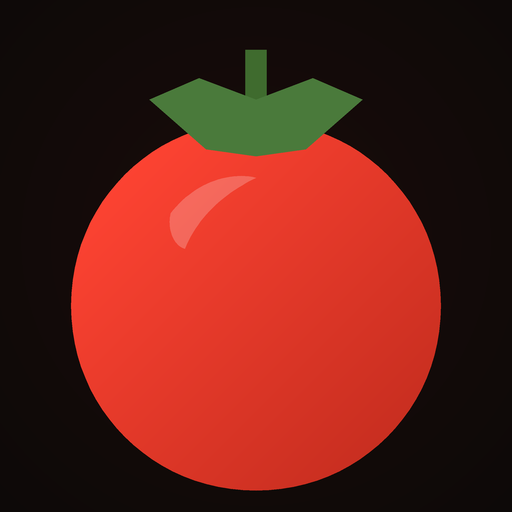
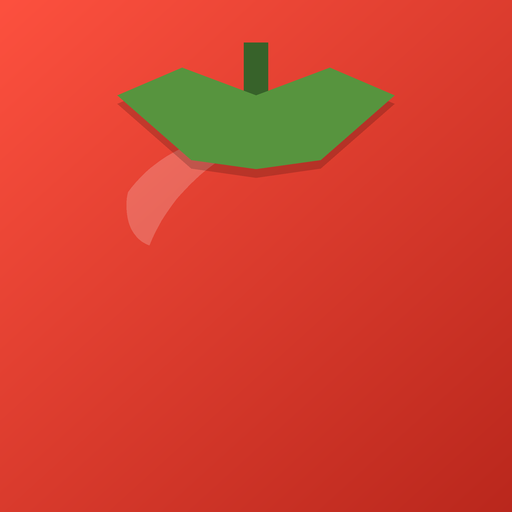
chore(version): 1.2.0 (versionCode 5)
Los cuatro sitios de CLAUDE.md §2.7 más los textos de Play: CHANGELOG.md, los
string-array changelog_1_2_0 en EN y ES, el catálogo y el build.gradle.kts.

El icono de la ficha se regenera con generar-assets.py, que reproduce los
pathData del icono de la app: el cuerpo del tomate ya no es un path del
foreground, es el degradado del background llenando el lienzo.

diff --git a/app/src/main/java/com/jjrapps/aquihaytomate/ui/changelog/ChangelogCatalog.kt b/app/src/main/java/com/jjrapps/aquihaytomate/ui/changelog/ChangelogCatalog.kt
@@ -26,6 +26,12 @@ object ChangelogCatalog {
 
     val releases: List<ChangelogRelease> = listOf(
         ChangelogRelease(
+            versionName = "1.2.0",
+            versionCode = 5,
+            releaseDate = LocalDate.of(2026, 8, 10),
+            highlightsRes = R.array.changelog_1_2_0,
+        ),
+        ChangelogRelease(
             versionName = "1.1.0",
             versionCode = 4,
             releaseDate = LocalDate.of(2026, 7, 29),

diff --git a/docs/store-assets/generar-assets.py b/docs/store-assets/generar-assets.py
@@ -176,55 +176,48 @@ def mascara_liquido(tamano, fraccion, fase, periodos):
 
 
 # ── Icono de Play ───────────────────────────────────────────────────────────────────────────────────
-# Los `pathData` de res/drawable/ic_launcher_foreground.xml, literalmente.
-CUERPO = ("M54,35 C68.5,35 80,46.5 80,61 C80,75.5 68.5,87 54,87 "
-          "C39.5,87 28,75.5 28,61 C28,46.5 39.5,35 54,35 Z")
-BRILLO = "M42,48 C45,44 50,42 54,43 C50,45 46,48 44,53 C42.5,52.5 41.5,50.5 42,48 Z"
-TALLO = "M52.5,25 L55.5,25 L55.5,36 L52.5,36 Z"
-CALIZ = "M54,32 L62,29 L69,32 L61,39 L54,40 L47,39 L39,32 L46,29 Z"
+# Los `pathData` de res/drawable/ic_launcher_foreground.xml, literalmente. El cuerpo del tomate ya no
+# es un path: es el degradado de ic_launcher_background.xml, que llena el lienzo entero.
+BRILLO = "M36,45 C40.5,39 48,36 54,37.5 C48,40.5 42,45 39,52.5 C36.75,51.75 35.25,49 36,45 Z"
+SOMBRA_CALIZ = ("M54,32.6 L64.4,28.7 L73.5,32.6 L63.1,41.7 L54,43 L44.9,41.7 L34.5,32.6 "
+                "L43.6,28.7 Z")
+TALLO = "M52.3,24 L55.7,24 L55.7,36 L52.3,36 Z"
+CALIZ = "M54,31.4 L64.4,27.5 L73.5,31.4 L63.1,40.5 L54,41.8 L44.9,40.5 L34.5,31.4 L43.6,27.5 Z"
 
 
 def icono_play(lado=512):
     """
     Reproduce el icono adaptativo y recorta la ventana visible.
 
-    El arte del `foreground` vive en la zona segura de 66 dp del lienzo de 108, pero el launcher solo
-    muestra los 72 dp centrales. Si se escalara el lienzo entero a 512, el tomate saldría un 33 % más
-    pequeño que en el escritorio del móvil; recortando [18,90] el icono de la ficha se ve **igual** que
-    el instalado, que es lo que se compara al mirar la lista de Play.
+    El launcher solo muestra los 72 dp centrales del lienzo de 108. Si se escalara el lienzo entero a
+    512, el tomate saldría un 33 % más pequeño que en el escritorio del móvil; recortando [18,90] el
+    icono de la ficha se ve **igual** que el instalado, que es lo que se compara al mirar la lista de
+    Play.
+
+    Desde la 1.2.0 el fondo es el cuerpo de la fruta y llena el lienzo, así que aquí no hay silueta que
+    recortar: el círculo lo pone el recorte de la ventana, igual que en el móvil lo pone la máscara.
     """
     escala = lado * SUPERMUESTREO / 72.0   # 72 unidades de la ventana visible → lado final
     lienzo = int(round(108 * escala))
 
-    img = degradado_radial(
+    img = degradado_lineal(
         (lienzo, lienzo),
-        centro=(54 * escala, 52 * escala),
-        radio=66 * escala,
-        color_centro=(0x1A, 0x0C, 0x0A),
-        color_borde=(0x0A, 0x09, 0x08),
+        inicio=(18 * escala, 14 * escala),
+        fin=(94 * escala, 98 * escala),
+        color_inicio=(0xFF, 0x52, 0x40),
+        color_fin=(0xB4, 0x24, 0x1A),
     ).convert("RGBA")
 
-    # Cuerpo: su propio degradado lineal, recortado por la silueta.
-    cuerpo = Image.new("L", (lienzo, lienzo), 0)
-    ImageDraw.Draw(cuerpo).polygon(puntos_de_path(CUERPO, escala), fill=255)
-    relleno = degradado_lineal(
-        (lienzo, lienzo),
-        inicio=(34 * escala, 41 * escala),
-        fin=(76 * escala, 83 * escala),
-        color_inicio=(0xFF, 0x44, 0x33),
-        color_fin=(0xC4, 0x2D, 0x1F),
-    )
-    img.paste(relleno, (0, 0), cuerpo)
+    brillo = Image.new("RGBA", (lienzo, lienzo), (0, 0, 0, 0))
+    ImageDraw.Draw(brillo).polygon(puntos_de_path(BRILLO, escala), fill=(255, 255, 255, 51))
+    img = Image.alpha_composite(img, brillo)
 
     capa = Image.new("RGBA", (lienzo, lienzo), (0, 0, 0, 0))
     dibujo = ImageDraw.Draw(capa)
-    dibujo.polygon(puntos_de_path(TALLO, escala), fill=(0x3F, 0x6B, 0x2E, 255))
-    dibujo.polygon(puntos_de_path(CALIZ, escala), fill=(0x4A, 0x7A, 0x3B, 255))
+    dibujo.polygon(puntos_de_path(SOMBRA_CALIZ, escala), fill=(0, 0, 0, 46))
+    dibujo.polygon(puntos_de_path(TALLO, escala), fill=(0x37, 0x62, 0x2A, 255))
+    dibujo.polygon(puntos_de_path(CALIZ, escala), fill=(0x57, 0x94, 0x3E, 255))
     img = Image.alpha_composite(img, capa)
-
-    brillo = Image.new("RGBA", (lienzo, lienzo), (0, 0, 0, 0))
-    ImageDraw.Draw(brillo).polygon(puntos_de_path(BRILLO, escala), fill=(255, 255, 255, 56))
-    img = Image.alpha_composite(img, brillo)
 
     ventana = int(round(18 * escala))
     img = img.crop((ventana, ventana, lienzo - ventana, lienzo - ventana))

diff --git a/CHANGELOG.md b/CHANGELOG.md
@@ -15,6 +15,51 @@ reutilizar ni bajando la versión.
 El formato sigue [Keep a Changelog](https://keepachangelog.com/es-ES/1.1.0/) y las versiones
 [Semantic Versioning](https://semver.org/lang/es/).
 
+## [1.2.0] — 2026-08-10 (versionCode 5)
+
+Sube el minor porque hay funcionalidad nueva —los tres modos de pantalla encendida y el correo al
+autor—, aunque el peso de la versión está en dos fallos que solo se ven en un dispositivo real: el
+temporizador no cabía girado y el icono se leía como una pegatina negra.
+
+### Añadido
+
+- **La pantalla se mantiene encendida mientras el móvil carga**, en la pantalla Temporizador. El
+  interruptor de sí/no pasa a tres modos —nunca, mientras carga, siempre— y **mientras carga es el nuevo
+  valor por defecto**: enchufado en el escritorio, la pantalla no cuesta batería y un temporizador que hay
+  que despertar para leer es un temporizador que se deja de mirar. Ya no depende de que el reloj esté
+  corriendo, así que pausar deja de apagar la pantalla. Quien tenía el interruptor encendido pasa a
+  «siempre», que es lo que tenía. Ver `docs/decisions/013-*`.
+- **Enviar comentarios al autor** desde Acerca de: abre la app de correo con el destinatario puesto y el
+  nombre y la versión de la app en el asunto, porque un informe sin versión no se puede atender. La
+  dirección no se imprime en la pantalla de Ajustes.
+
+### Cambiado
+
+- **Los controles `REINICIAR` y `SALTAR` pasan a blanco.** En `TextMuted` se leían como deshabilitados, y
+  en una pantalla sin cajas el color es la única señal de que algo se puede pulsar. La jerarquía la marcan
+  ahora el tamaño y el glifo del control primario.
+- **`A CONTINUACIÓN:` se queda en `SIGUIENTE:`.** A 10 sp y con tracking, esa etiqueta pesaba más que el
+  dato que introduce.
+- **El tomate pierde el cáliz.** Las tres hojas que se dibujaban en los descansos se solapaban entre ellas
+  y se fundían en un bloque de base recta pintado por encima del contorno, así que parecían un recorte
+  pegado al círculo y no parte de él. La fase la sigue diciendo la etiqueta escrita debajo.
+
+### Corregido
+
+- **El temporizador se salía de la pantalla con el móvil girado.** En horizontal quedan unos 370 dp de
+  alto y la columna necesita más, así que `SALTAR` y los puntos de ciclo caían por debajo del borde
+  inferior, sin scroll ni forma de alcanzarlos. Girado, el bloque se parte en dos columnas —tomate a la
+  izquierda, controles a la derecha— y el diámetro se calcula sobre el alto disponible. El onboarding
+  sufría lo mismo, con `EMPEZAR` fuera de alcance: sus páginas quedan centradas cuando caben y con scroll
+  cuando no, lo que cubre además las escalas de fuente grandes.
+- **El icono de la app se veía como una pegatina negra** sobre cualquier fondo de pantalla que no fuera
+  oscuro: el fondo del icono adaptativo era casi negro y el tomate se dibujaba pequeño dentro de la zona
+  segura. Como el launcher siempre pinta la capa de fondo y siempre recorta con su propia máscara, ahora
+  el degradado rojo **es** el cuerpo del tomate y llena el lienzo; en la capa delantera quedan el rabillo
+  y el brillo.
+- **El asunto del correo de comentarios llegaba vacío en Gmail**, que resuelve `ACTION_SENDTO` leyendo la
+  URI `mailto:` y descarta `EXTRA_SUBJECT`. Ahora viaja en los dos sitios.
+
 ## [1.1.0] — 2026-07-29 (versionCode 4)
 
 Sube el minor y no el patch porque hay funcionalidad nueva: los dos sonidos. El `versionCode` va a 4 porque

diff --git a/docs/play-store-publication-texts.md b/docs/play-store-publication-texts.md
@@ -199,6 +199,24 @@ El nombre se mantiene en español en ambos idiomas: es la marca.
 
 ## 7. Novedades de esta versión
 
+**ES (1.2.0)** — 425 caracteres, el límite de Play son 500
+> La pantalla se mantiene encendida mientras el móvil carga, así puedes ver la cuenta atrás sin tocar
+> nada. Se puede poner en «nunca» o «siempre» en Ajustes.
+>
+> Corregido: el temporizador se salía de la pantalla con el móvil girado y «Saltar» quedaba fuera.
+> El icono ya no aparece dentro de un círculo negro sobre fondos claros.
+>
+> Además: «Reiniciar» y «Saltar» se ven en blanco, y hay una opción nueva para escribirme por correo.
+
+**EN (1.2.0)**
+> The screen stays awake while your phone is charging, so you can watch the countdown without touching
+> anything. You can set it to never or always in Settings.
+>
+> Fixed: the timer ran off the screen with the phone on its side and «Skip» was out of reach. The app
+> icon no longer sits inside a black circle on light wallpapers.
+>
+> Also: «Reset» and «Skip» are white now, and there is a new entry to email me.
+
 **ES (1.0.0)**
 > Primera versión. Temporizador Pomodoro con widget de una sola casilla, estadísticas, avisos
 > configurables y tema oscuro. Sin anuncios ni seguimiento.
@@ -207,8 +225,8 @@ El nombre se mantiene en español en ambos idiomas: es la marca.
 > First release. Pomodoro timer with a one-cell home screen widget, statistics, configurable alerts
 > and a dark theme. No ads, no tracking.
 
-> Los dos textos tienen que decir lo mismo que el `string-array` `changelog_1_0_0` de la app: es la
-> misma versión contada dos veces y el usuario puede leer las dos.
+> Los textos de cada versión tienen que decir lo mismo que su `string-array` `changelog_*` de la app:
+> es la misma versión contada dos veces y el usuario puede leer las dos.
 
 ---
 
